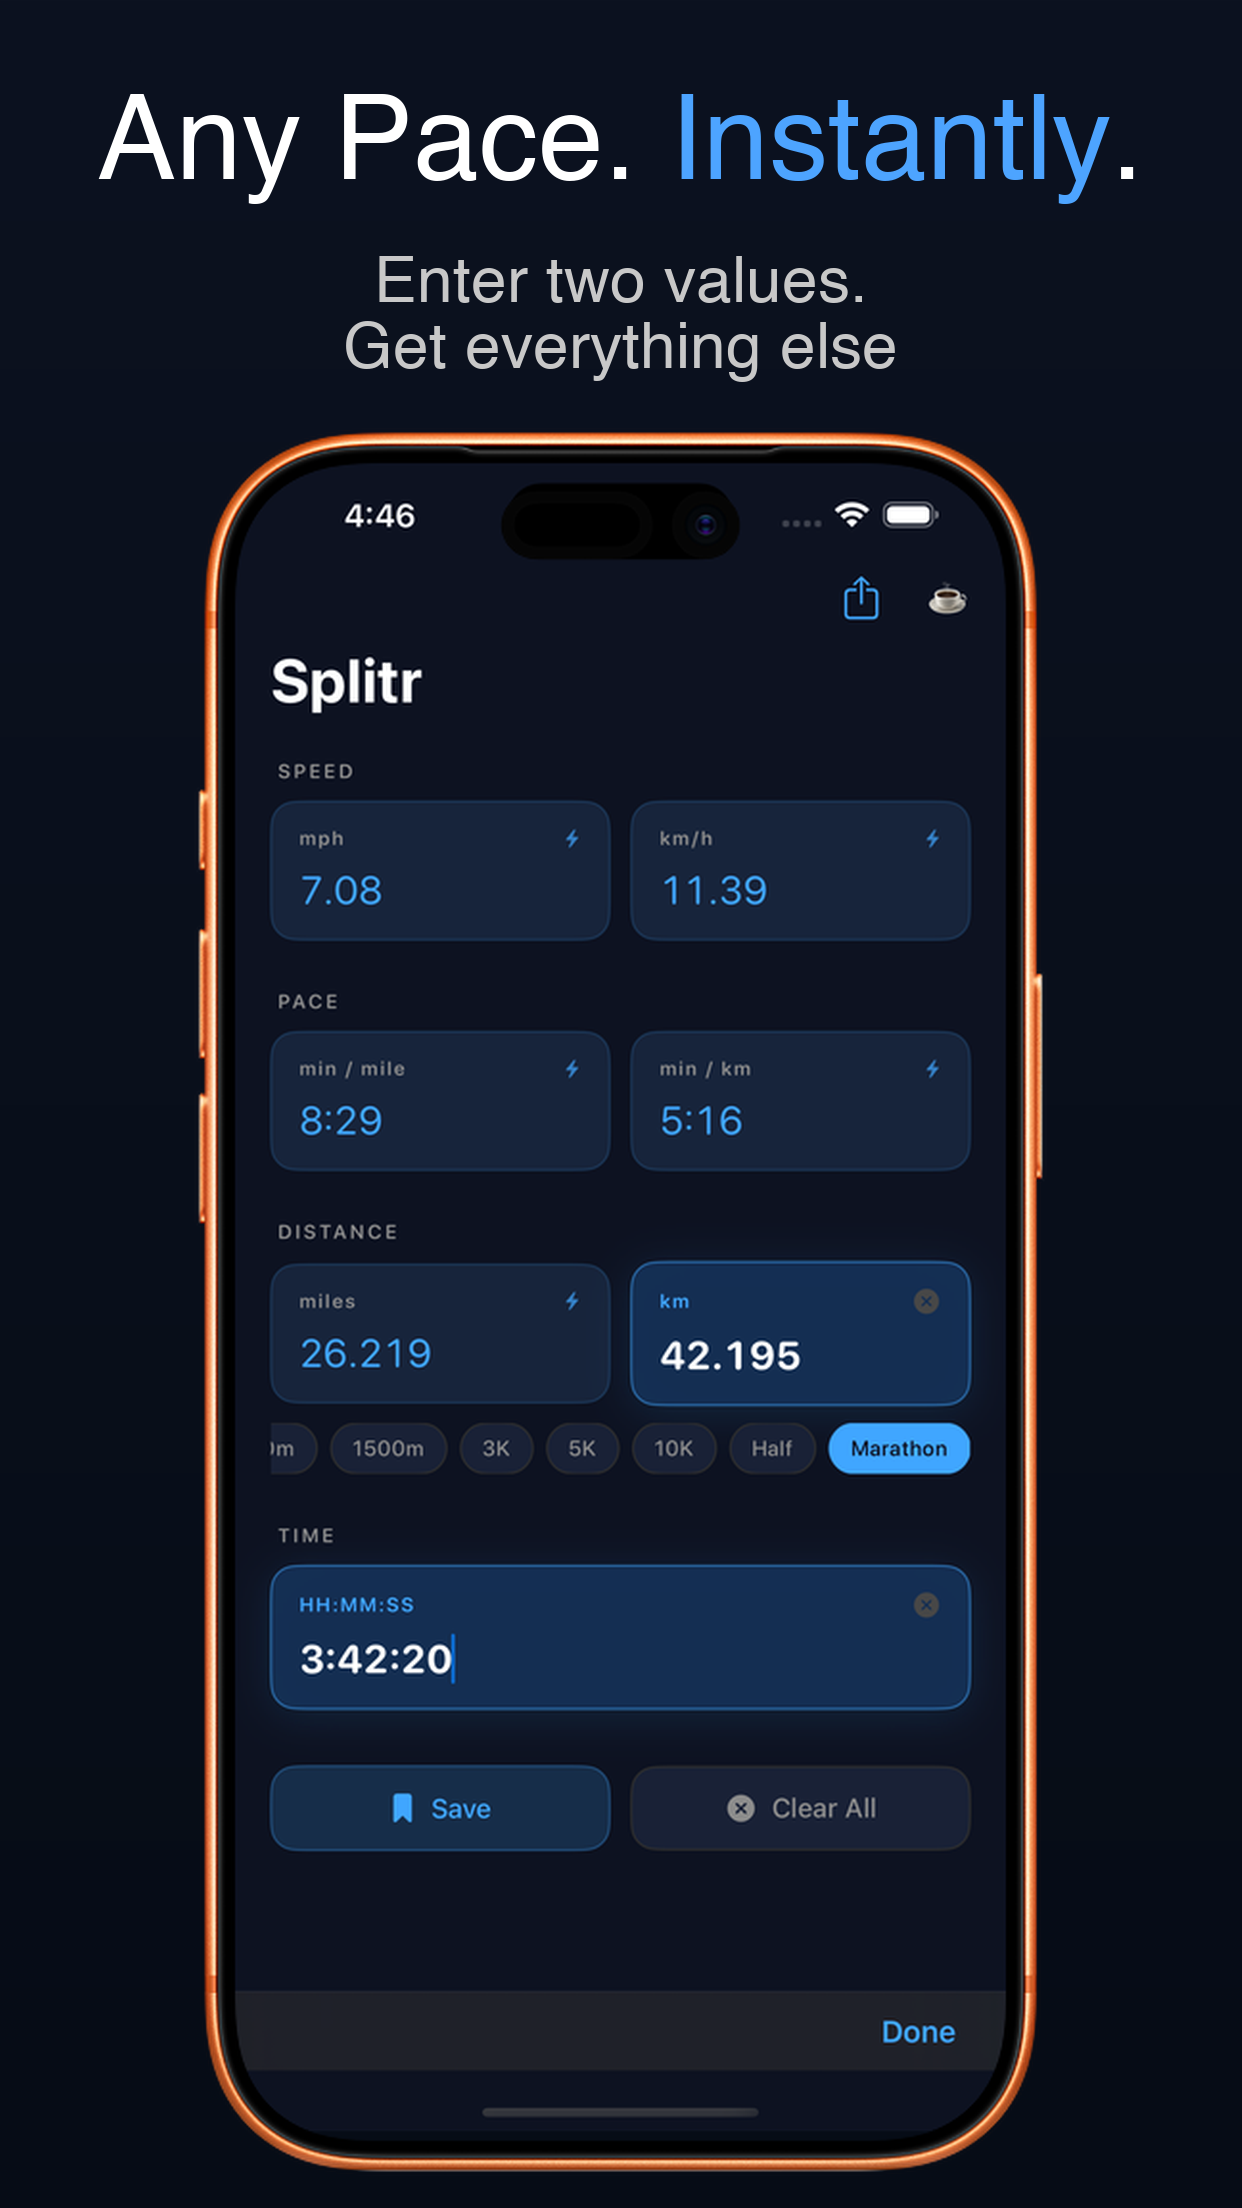
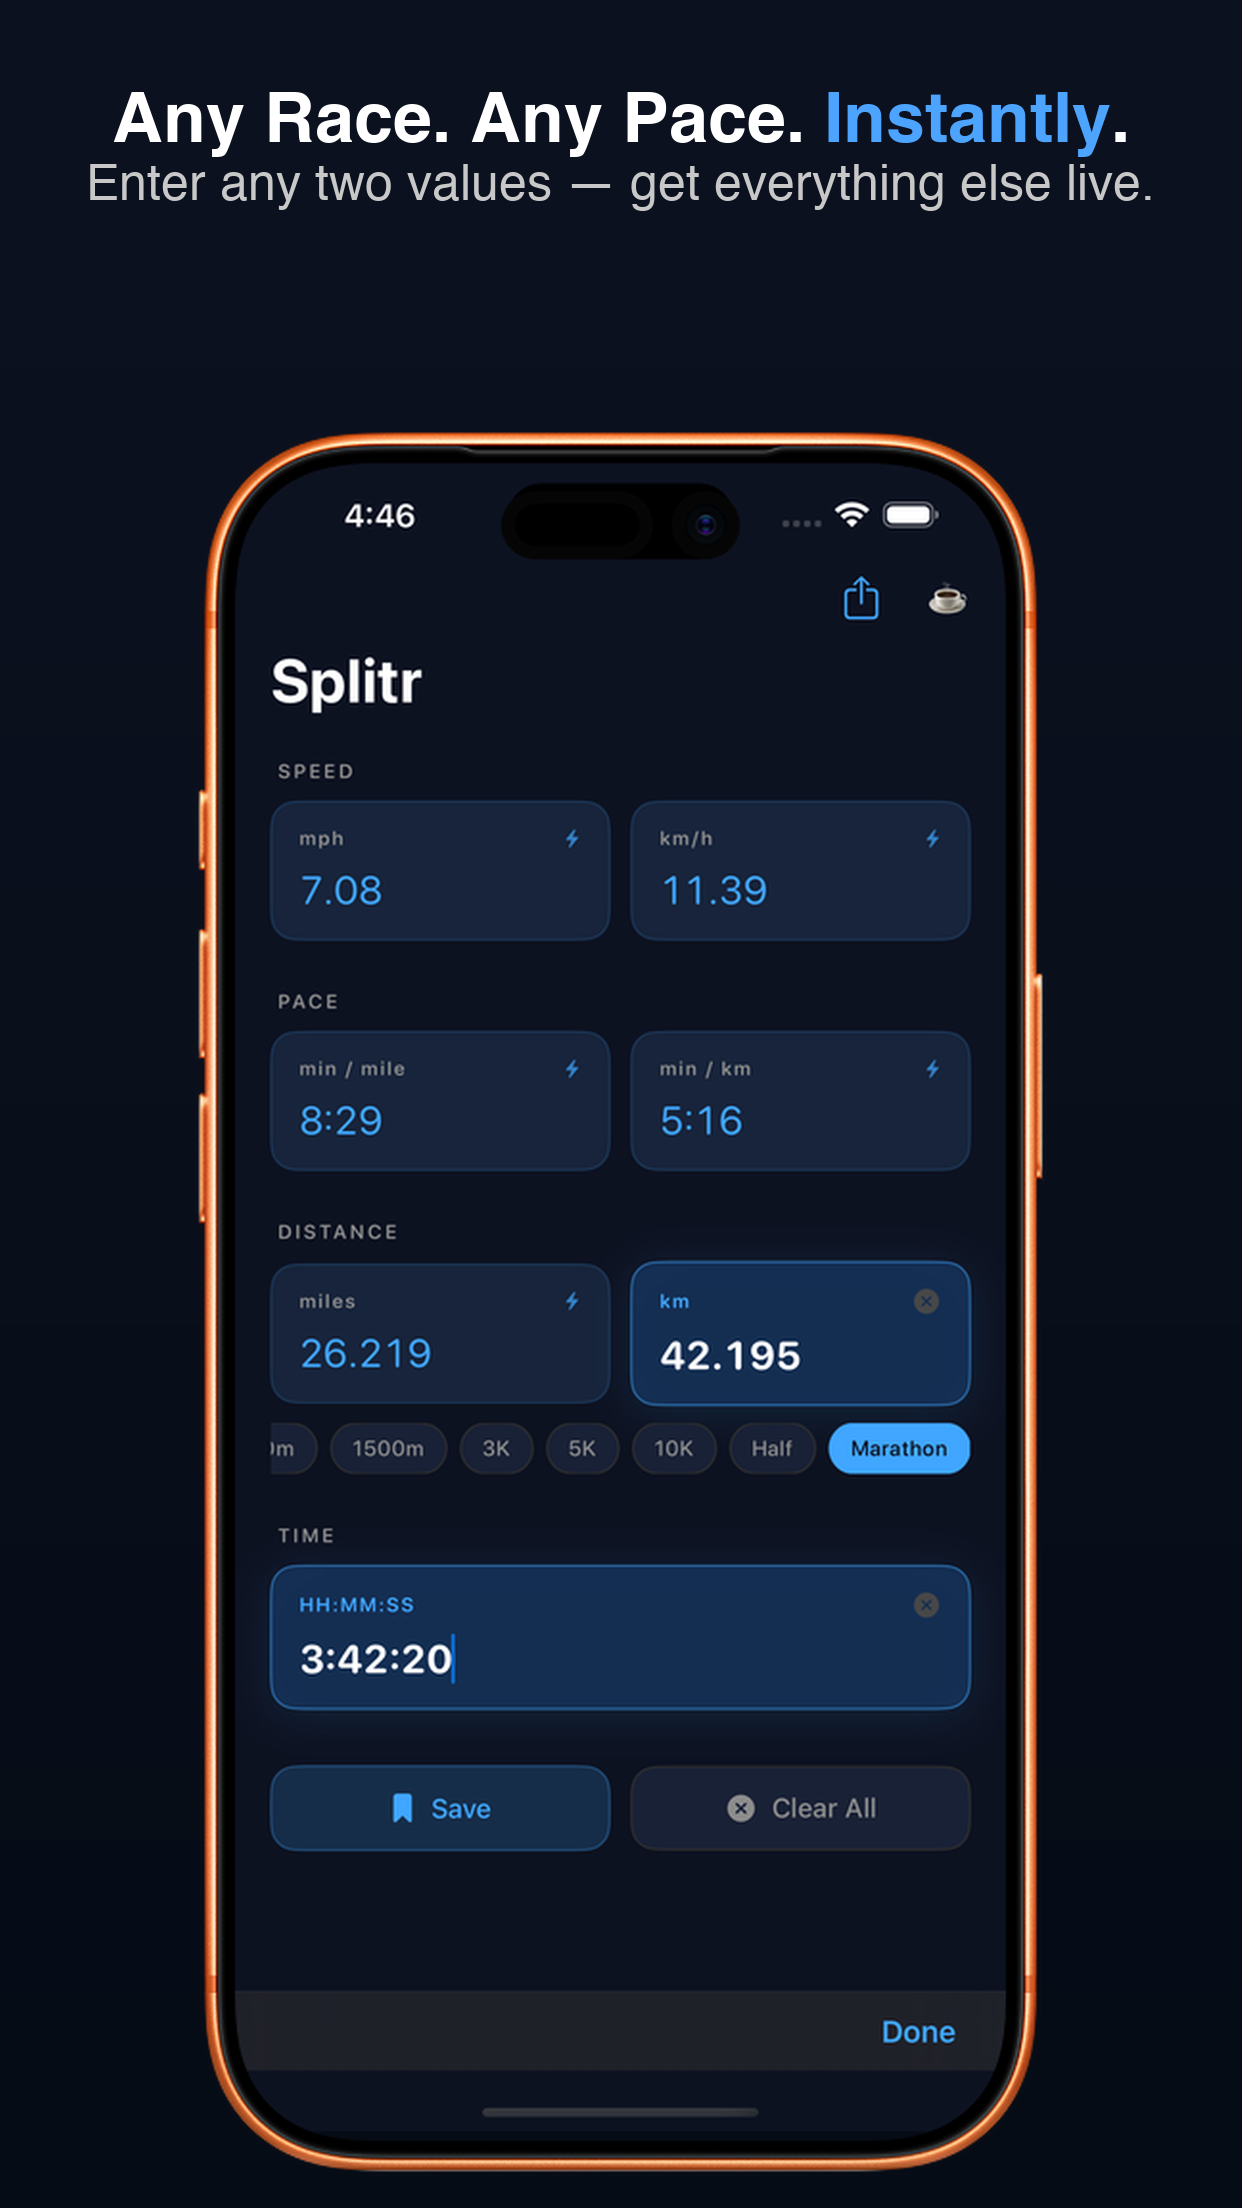
Fix App Review rejection: remove pricing refs, add support page
- Removed "Free" pricing references from screenshot CTAs (guideline 2.3.7)
- Added real support page at AppStore/support.html (guideline 1.5)
- Updated support URL from GitHub Issues to GitHub Pages support page
- Reprocessed all screenshots with corrected CTAs

Changed region(s): [[0.0612, 0.0312, 0.9179, 0.0938], [0.2754, 0.125, 0.7037, 0.1875]]

diff --git a/AppStore/support.html b/AppStore/support.html
@@ -1,0 +1,67 @@
+<!DOCTYPE html>
+<html lang="en">
+<head>
+  <meta charset="UTF-8" />
+  <meta name="viewport" content="width=device-width, initial-scale=1.0" />
+  <title>Splitr — Support</title>
+  <style>
+    body {
+      font-family: -apple-system, BlinkMacSystemFont, "Segoe UI", sans-serif;
+      max-width: 680px;
+      margin: 60px auto;
+      padding: 0 24px;
+      color: #1a1a1a;
+      line-height: 1.7;
+    }
+    h1 { font-size: 1.8rem; margin-bottom: 4px; }
+    h2 { font-size: 1.1rem; margin-top: 2rem; }
+    p, li { font-size: 0.97rem; }
+    .subtitle { color: #666; font-size: 0.95rem; margin-bottom: 2rem; }
+    a { color: #007AFF; }
+    .contact-box {
+      background: #f5f5f7;
+      border-radius: 12px;
+      padding: 20px 24px;
+      margin: 1.5rem 0;
+    }
+    .contact-box a { font-weight: 600; }
+  </style>
+</head>
+<body>
+
+  <h1>Support</h1>
+  <p class="subtitle">Splitr: Run Calculator</p>
+
+  <div class="contact-box">
+    <p>Need help or have a question? Email us at<br>
+    <a href="mailto:support@zima-logistics.com">support@zima-logistics.com</a></p>
+  </div>
+
+  <h2>Frequently Asked Questions</h2>
+
+  <h3>How do I use the calculator?</h3>
+  <p>Enter any two values (speed, pace, distance, or time) and Splitr instantly calculates the rest. No button needed. Tap a distance shortcut (5K, 10K, Half Marathon, etc.) to fill the distance field automatically.</p>
+
+  <h3>How do I save a calculation?</h3>
+  <p>Tap the bookmark icon to save your current values as a named preset. Your presets sync across all your iPhone devices via iCloud.</p>
+
+  <h3>How do I share my results?</h3>
+  <p>Tap the share icon to copy or share a formatted summary of your current calculation.</p>
+
+  <h3>What does the widget show?</h3>
+  <p>The home screen widget displays your most recently saved preset with pace, speed, distance, and time. It updates automatically when you save a new preset.</p>
+
+  <h3>Is the app really free?</h3>
+  <p>Every feature in Splitr is available at no cost. The optional Tip Jar in Settings lets you support development if you choose.</p>
+
+  <h3>Does Splitr collect my data?</h3>
+  <p>No. Splitr has no servers, no analytics, and no tracking. Your presets are stored locally and in your personal iCloud account. See our <a href="privacy-policy.html">Privacy Policy</a> for details.</p>
+
+  <h2>Report a Bug</h2>
+  <p>Found something that doesn't work right? Email us at <a href="mailto:support@zima-logistics.com">support@zima-logistics.com</a> with a description of what happened. Include your device model and iOS version if possible.</p>
+
+  <h2>Request a Feature</h2>
+  <p>Have an idea for Splitr? We'd love to hear it. Email <a href="mailto:support@zima-logistics.com">support@zima-logistics.com</a> and tell us what you need.</p>
+
+</body>
+</html>

diff --git a/APP_STORE_SCREENSHOT_SPEC.md b/APP_STORE_SCREENSHOT_SPEC.md
@@ -43,13 +43,13 @@
 
 ---
 
-## Screenshot 4 — Privacy / Free Forever
+## Screenshot 4 — Privacy
 **Raw file:** `screenshots/raw/4.png`
 **Screen shown:** ⚠ CURRENTLY AN EMPTY STATE — recommend replacing with the privacy onboarding screen or a widget on the home screen
 
-**Headline:** 100% **Free.** No Strings.
-**Accent word:** Free
-**Subtext:** No subscription. No sign-up. No tracking. Ever.
+**Headline:** Your **Privacy,** Protected.
+**Accent word:** Privacy
+**Subtext:** No accounts. No sign-up. No tracking. Ever.
 
 ---
 
@@ -57,11 +57,9 @@
 **Raw file:** `screenshots/raw/5.png`
 **Screen shown:** Tip jar — "Buy the Dev a Coffee" with $0.99 / $2.99 / $4.99 options
 
-**Headline:** **Free** Forever. Tip if You Love It.
-**Accent word:** Free
-**Subtext:** Every feature is free. Optional tips keep the lights on.
-
-**Apple policy note:** ✅ Allowed — tip jar screenshots are permitted. Showing voluntary consumable IAPs is not restricted. The "Splitr is free and always will be" copy makes it clear no features are paywalled.
+**Headline:** Love It? **Tip** the Dev.
+**Accent word:** Tip
+**Subtext:** Every feature included. Optional tips keep the lights on.
 
 ---
 
@@ -79,10 +77,3 @@
 
 ---
 
-## ⚠ Action Required Before Processing
-**Screenshot 4 is an empty/blank app state** — this is a poor conversion screenshot. Recommend replacing with one of:
-- The privacy onboarding screen (first-launch "100% Offline" flow)
-- The Splitr widget on an iPhone home screen
-- A partial calculation showing the distance shortcuts row clearly
-
-If you want to proceed with the current 4.png anyway, the "Free Forever" CTA still works — it's just not as visually compelling as the other shots.
